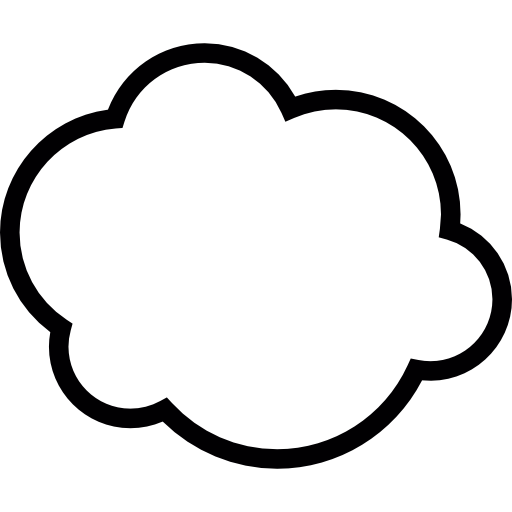
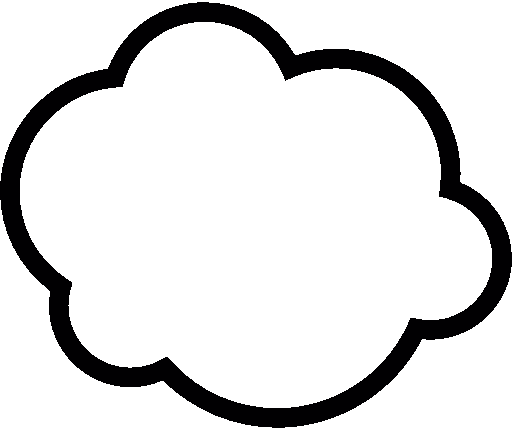
:lipstick: Completed work on carbon emissions screen

diff --git a/EnergyPerformance/Views/CarbonEmissionPage.xaml b/EnergyPerformance/Views/CarbonEmissionPage.xaml
@@ -42,9 +42,9 @@
                     <TextBlock FontSize="25" Text="" Margin="10, 5">
                         <Run x:Uid="CarbonEmissionCard"/>
                     </TextBlock>
-                    <Grid>
+                    <Grid Margin="0, 15, 0, 0">
                         <!--{ThemeResource ControlAltFillColorTertiaryBrush}-->
-                        <BitmapIcon Height="210" Width="210" UriSource="ms-appx:///Assets/cloud-icon.png"></BitmapIcon>
+                        <BitmapIcon Height="176" Width="210" UriSource="ms-appx:///Assets/cloud-icon.png"></BitmapIcon>
                         <StackPanel Orientation="Vertical" HorizontalAlignment="Center" VerticalAlignment="Center">
                             <TextBlock FontSize="30" VerticalAlignment="Center"  HorizontalAlignment="Center" Style="{StaticResource TitleLargeTextBlockStyle}">
                             <Run Text="{x:Bind ViewModel.Power, Converter={StaticResource PowerUsageStringConverter}, Mode=OneWay}" />
@@ -59,34 +59,36 @@
         </StackPanel>
 
         <StackPanel Orientation="Vertical" HorizontalAlignment="Center">
-            <Button x:Uid="ViewPowerButton" Margin="0, 0, 0, 30" Click="SwitchToPowerUsage" HorizontalAlignment="Center"/>
+            <Button x:Uid="ViewPowerButton" Margin="0, 0, 0, 100" Click="SwitchToPowerUsage" HorizontalAlignment="Center"/>
 
-            <StackPanel Width="400" Height="500" Orientation="Vertical" CornerRadius="15" Padding="5" Margin="0, 0, 0, 25" BorderThickness="1" BorderBrush="{ThemeResource CardStrokeColorDefaultBrush}" Background="{ThemeResource ControlAltFillColorTertiaryBrush}">
+            <StackPanel Width="400" Height="410" Orientation="Vertical" CornerRadius="15" Padding="5" Margin="0, 0, 0, 0" BorderThickness="1" BorderBrush="{ThemeResource CardStrokeColorDefaultBrush}" Background="{ThemeResource ControlAltFillColorTertiaryBrush}">
 
-                <TextBlock FontSize="25" Text="" Margin="10, 5, 10, 20">
+                <TextBlock FontSize="25" Text="" Margin="10, 5, 10, 10">
                     <Run x:Uid="EmissionsLabel"/>
                 </TextBlock>
 
-                <Grid>
-                    <BitmapIcon Height="210" Width="210" UriSource="ms-appx:///Assets/cloud-icon.png"></BitmapIcon>
+                <StackPanel Orientation="Vertical">
+                <Grid Margin="0, 0, 0, 15">
+                    <BitmapIcon Height="155" Width="185" UriSource="ms-appx:///Assets/cloud-icon.png"></BitmapIcon>
                     <StackPanel Orientation="Vertical" HorizontalAlignment="Center" VerticalAlignment="Center">
-                        <TextBlock FontSize="30" VerticalAlignment="Center"  HorizontalAlignment="Center" Style="{StaticResource TitleLargeTextBlockStyle}">
+                        <TextBlock FontSize="22" VerticalAlignment="Center"  HorizontalAlignment="Center" Style="{StaticResource TitleLargeTextBlockStyle}">
                             <Run Text="{x:Bind ViewModel.CpuUsage, Mode=OneWay}" />
                             <Run x:Uid="EmissionsSymbol"/>
                         </TextBlock>
-                        <TextBlock x:Uid="CPUCarbonEmissionLabel"  FontSize="20" VerticalAlignment="Center"  HorizontalAlignment="Center"/>
+                        <TextBlock x:Uid="CPUCarbonEmissionLabel"  FontSize="17" VerticalAlignment="Center"  HorizontalAlignment="Center"/>
                     </StackPanel>
                 </Grid>
                 <Grid>
-                    <BitmapIcon Height="210" Width="210" UriSource="ms-appx:///Assets/cloud-icon.png"></BitmapIcon>
+                    <BitmapIcon Height="155" Width="185" UriSource="ms-appx:///Assets/cloud-icon.png"></BitmapIcon>
                     <StackPanel Orientation="Vertical" HorizontalAlignment="Center" VerticalAlignment="Center">
-                        <TextBlock FontSize="30" VerticalAlignment="Center"  HorizontalAlignment="Center" Style="{StaticResource TitleLargeTextBlockStyle}">
+                        <TextBlock FontSize="22" VerticalAlignment="Center"  HorizontalAlignment="Center" Style="{StaticResource TitleLargeTextBlockStyle}">
                             <Run Text="{x:Bind ViewModel.CpuUsage, Mode=OneWay}" />
                             <Run x:Uid="EmissionsSymbol"/>
                         </TextBlock>
-                        <TextBlock x:Uid="GPUCarbonEmissionLabel"  FontSize="20" VerticalAlignment="Center"  HorizontalAlignment="Center"/>
+                        <TextBlock x:Uid="GPUCarbonEmissionLabel"  FontSize="17" VerticalAlignment="Center"  HorizontalAlignment="Center"/>
                     </StackPanel>
                 </Grid>
+                </StackPanel>
             </StackPanel>
         </StackPanel>
     </GridView>
